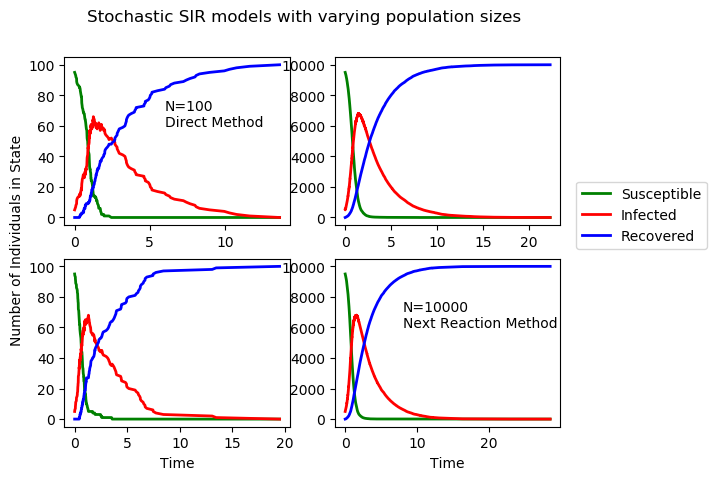
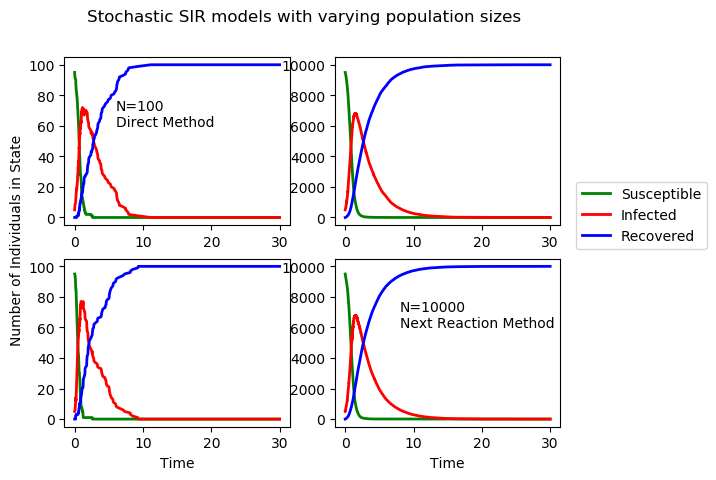
DONEE!!!!!!

diff --git a/PythonSimulation/simulate.py b/PythonSimulation/simulate.py
@@ -393,7 +393,7 @@ def nM_SEIR_simulation(k, m_func, nm_func, haz_func, tMax, network, eTotal, iTot
     print(f"mae Strong nMarkov: {maes:.4f}")
     return Sm,Em,Im,Infm,Rm,Snm,Inm,Rnm,Snms,Inms,Rnms
 
-def nH_single_simulation(k, update_func, rate_func, inv_method, thin_method, haz_max, tMax, title, fname):
+def nH_single_simulation(k, update_func, rate_func, inv_method, thin_method, haz_max, tMax, title, fname, fname2):
     '''
     Method to run and plot nonhomogeneous Poisson validation experiments
     '''
@@ -407,23 +407,37 @@ def nH_single_simulation(k, update_func, rate_func, inv_method, thin_method, haz
         invn[i] = np.interp(t, ti, ei,right=ei[-1])
         ax1.plot(ti, ei, color="#82c7a5",lw = 2, alpha=0.3)
         ti, ei = thin_method(rate_func, haz_max, tMax)
+        ti = np.append(ti, tMax)
+        ei = np.append(ei, ei[-1])
         ei = np.cumsum(ei)
         thinn[i] = np.interp(t, ti, ei,right=ei[-1])
-        ti = np.append(ti,50)
-        ei = np.append(ei,ei[-1])
-        ax2.plot(ti, ei, color="#82c7a5",lw = 2, alpha=0.3)
+        ax2.plot(ti, ei, color="#7890cd",lw = 2, alpha=0.3)
     Invm = np.median(np.array(list(invn.values())),0)
     Thinm = np.median(np.array(list(thinn.values())),0)
-    ax1.plot(t, Invm, color="green",lw = 2)
-    ax2.plot(t, Thinm, color="green",lw = 2)
+    inv = ax1.plot(t, Invm, color="green",lw = 2)[0]
+    thin = ax2.plot(t, Thinm, color="blue",lw = 2)[0]
+    ax1.plot(t, Thinm, color="blue",linestyle="dashed", lw=2,alpha=0.7)
+    ax2.plot(t, Invm, color="green",lw=2,linestyle="dashed",alpha=0.7)
     ax1.set_xlabel('Time')
     ax1.set_xlim([0,50])
     ax2.set_xlim([0,50])
     ax2.set_xlabel('Time')
     ax1.set_ylabel('Cumulative Number of Events')
+    line_labels = ["Inverse Method", "Thinning Method"]
+    fig.legend(handles=[inv, thin],labels=line_labels,loc="center right")
     fig.suptitle(title)
     plt.savefig(fname)
     plt.close()
+
+    fig, (ax1,ax2) = plt.subplots(nrows=1, ncols=2, sharex=True, sharey=True)
+    ax1.hist(np.array(list(invn.values()))[:,600])
+    ax1.set_xlabel('Cumulative Number of Events')
+    ax2.set_xlabel('Cumulative Number of Events')
+    ax1.set_ylabel('Frequency')
+    ax2.hist(np.array(list(thinn.values()))[:,600])
+    plt.savefig(fname2)
+    plt.close()
+
 
 def nH_competing_simulation(k, update_func, rate_func_sing, rate_func_vec, inv_method, nMGA, first_method, gMax, haz_max, haz_min, num_processes, tMax, title, fname):
     '''
@@ -547,7 +561,6 @@ def nH_competing_simulation(k, update_func, rate_func_sing, rate_func_vec, inv_m
     line_labels = ["Event Type 0", "Event Type 1", "Event Type 2", "Event Type 3"]
     plt.legend(handles=[p1, p2, p3, p4],labels=line_labels,bbox_to_anchor=(1.04,1.5), loc="upper left")
 
-    fig.suptitle(title)
     plt.savefig(fname,bbox_inches="tight")
     plt.close()
 
@@ -609,6 +622,10 @@ def ode_N_simulation(g_func, f_func, tMax, networks, iTotal, sTotal, rTotal, num
     ax4 = axs[1,1]
 
     t, Si, Ii, Ri = g_func(tMax, network, iTotal[0], sTotal[0], rTotal[0], copy.copy(numSusNei[0]), copy.copy(rates), copy.copy(susceptible[0]), maxalpha, maxbeta)
+    Si = np.append(Si,Si[-1])
+    t = np.append(t,tMax)
+    Ii = np.append(Ii,Ii[-1])
+    Ri = np.append(Ri,Ri[-1])
     S=ax1.plot(t, Si, color="green",lw = 2)[0]
     I=ax1.plot(t, Ii, color="red",lw = 2)[0]
     R=ax1.plot(t, Ri, color="blue",lw = 2)[0]
@@ -616,14 +633,26 @@ def ode_N_simulation(g_func, f_func, tMax, networks, iTotal, sTotal, rTotal, num
     ax1.text(6,60,"N=100\nDirect Method")
     plt.legend(handles=[S, I, R],labels=line_labels,bbox_to_anchor=(1.04,1.5), loc="upper left")
     t, Si, Ii, Ri = g_func(tMax, network1, iTotal[1], sTotal[1], rTotal[1], copy.copy(numSusNei[1]), copy.copy(rates1), copy.copy(susceptible[1]), maxalpha, maxbeta)
+    Si = np.append(Si,Si[-1])
+    t = np.append(t,tMax)
+    Ii = np.append(Ii,Ii[-1])
+    Ri = np.append(Ri,Ri[-1])
     ax2.plot(t, Si, color="green",lw = 2)
     ax2.plot(t, Ii, color="red",lw = 2)
     ax2.plot(t, Ri, color="blue",lw = 2)
     t, Si, Ii, Ri = f_func(tMax, network, iTotal[0], sTotal[0], rTotal[0], copy.copy(numSusNei[0]), copy.copy(rates), copy.copy(susceptible[0]), maxalpha, maxbeta)
+    Si = np.append(Si,Si[-1])
+    t = np.append(t,tMax)
+    Ii = np.append(Ii,Ii[-1])
+    Ri = np.append(Ri,Ri[-1])
     ax3.plot(t, Si, color="green",lw = 2)
     ax3.plot(t, Ii, color="red",lw = 2)
     ax3.plot(t, Ri, color="blue",lw = 2)
     t, Si, Ii, Ri = f_func(tMax, network1, iTotal[1], sTotal[1], rTotal[1], copy.copy(numSusNei[1]), copy.copy(rates1), copy.copy(susceptible[1]), maxalpha, maxbeta)
+    Si = np.append(Si,Si[-1])
+    t = np.append(t,tMax)
+    Ii = np.append(Ii,Ii[-1])
+    Ri = np.append(Ri,Ri[-1])
     ax4.plot(t, Si, color="green",lw = 2)
     ax4.plot(t, Ii, color="red",lw = 2) 
     ax4.plot(t, Ri, color="blue",lw = 2)

diff --git a/inhomogeneous_Poisson_Experimentation.py b/inhomogeneous_Poisson_Experimentation.py
@@ -15,13 +15,14 @@ def main(single=True, competing=True, timing=True):
             return np.sqrt((1+ti**2-r**(2/4))/(r**(2/4)))
         def rateFunction(t):
             return (4*t)/(1+t**2) 
-        j = 30
+        j = 200
         rateMax = 2
         tMax = 50
         # conducting experiment and plotting
         title = "Inversion and Thinning Methods for an inhomogeneous Poisson process"
         fname = "PythonPlotting/nh_Poisson_Tests/Single"
-        nH_single_simulation(j, updateFunction, rateFunction, single_inverse, single_thin, rateMax, tMax, title, fname)
+        fname2 = "PythonPlotting/nh_Poisson_Tests/Single_hist"
+        nH_single_simulation(j, updateFunction, rateFunction, single_inverse, single_thin, rateMax, tMax, title, fname, fname2)
 
 
     if (competing):
@@ -122,4 +123,4 @@ def main(single=True, competing=True, timing=True):
         [minBoundsOne, minBoundsTwo, minBoundsFour], numProcesses, tMax)
 
 if __name__=="__main__":
-    main(False, True, False)
+    main(True, False, False)

diff --git a/Python_Nonhomog/Single/nonHomogSim.py b/Python_Nonhomog/Single/nonHomogSim.py
@@ -59,8 +59,6 @@ def thinningExactMethod(rateFunction, rateMax, timeLimit=50):
             numEvents[i] = numEvents[i-1] + 1
             # update index
             i += 1
-
-
     return eventTimes[:i], numEvents[:i]
 
 def thinningApproxMethod(rateFunction, rateMax, timeLimit=100):
@@ -92,5 +90,4 @@ def thinningApproxMethod(rateFunction, rateMax, timeLimit=100):
             i += 1
         # update time
         t += delT
-
     return eventTimes[:i], numEvents[:i]

diff --git a/Markovian_Epidemics_Experimentation.py b/Markovian_Epidemics_Experimentation.py
@@ -65,7 +65,7 @@ def main():
     Ns = [100,10000]
     maxbeta = 4
     maxalpha = 0.4
-    tMax = 40
+    tMax = 30
 
     network = ig.Graph.Full(Ns[0])
     network1 = ig.Graph.Full(Ns[1])
